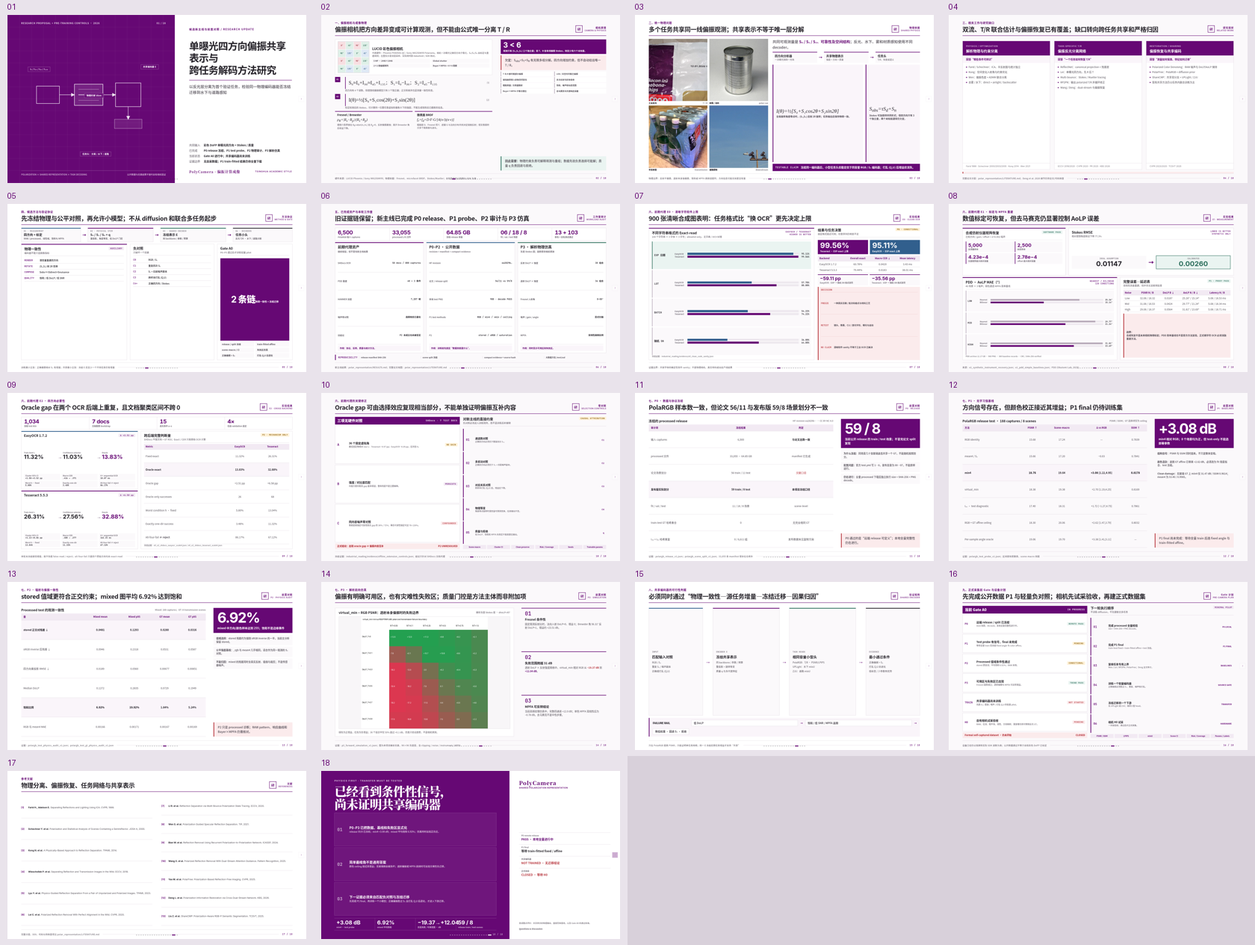
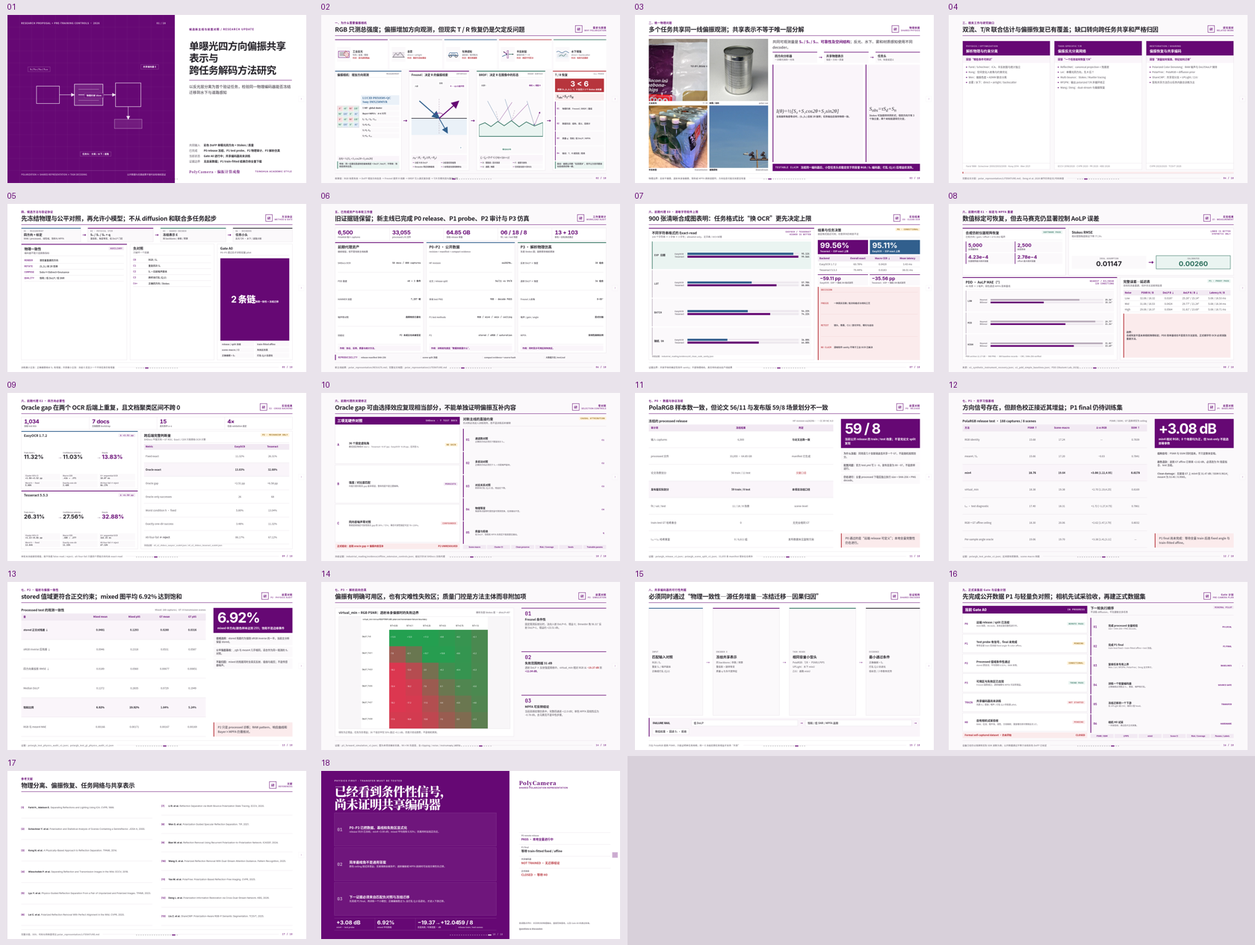
docs: redraw slide 2 polarization narrative

Changed region(s): [[0.2476, 0.0308, 0.4952, 0.185]]

diff --git a/demo/tsinghua-ppt/index.html b/demo/tsinghua-ppt/index.html
@@ -227,6 +227,45 @@
   .rank-card span{display:block;margin-top:.4vh;font:650 clamp(11px,.73vw,14px)/1.35 var(--sans)}
   .reality-list{display:grid;grid-template-columns:1fr 1fr;gap:.5vh .5vw;align-content:start}
   .reality-item{padding:.68vh .55vw;border-left:3px solid var(--line-strong);background:#fff;font:600 clamp(10px,.67vw,13px)/1.3 var(--sans);color:var(--ink-soft)}
+  .camera-physics-story{height:100%;display:grid;grid-template-columns:none;grid-template-rows:17.5vh minmax(0,1fr);gap:1.1vh}
+  .scene-need-grid{display:grid;grid-template-columns:repeat(5,1fr);gap:.65vw;min-height:0}
+  .scene-need{display:grid;grid-template-columns:4.65em 1fr;gap:.65vw;align-items:center;padding:.75vh .65vw;border-top:3px solid var(--accent);background:#fff}
+  .scene-need:nth-child(2){border-top-color:var(--line-strong)}.scene-need:nth-child(3){border-top-color:var(--info)}.scene-need:nth-child(4){border-top-color:var(--danger)}.scene-need:nth-child(5){border-top-color:var(--success)}
+  .scene-symbol{height:8.8vh;min-height:62px;display:grid;place-items:center;background:var(--paper-soft);overflow:hidden}
+  .scene-symbol svg{width:94%;height:94%;display:block}
+  .scene-copy strong{display:block;font:750 clamp(13px,.84vw,16px)/1.2 var(--sans);color:var(--ink)}
+  .scene-copy span{display:block;margin-top:.35vh;font:550 clamp(10px,.67vw,13px)/1.3 var(--sans);color:var(--muted)}
+  .scene-copy em{display:block;margin-top:.38vh;color:var(--danger);font:700 clamp(9px,.62vw,12px)/1.2 var(--sans);font-style:normal}
+  .physics-story-flow{min-height:0;display:grid;grid-template-columns:1.02fr auto .92fr auto 1.05fr auto .82fr;gap:.55vw;align-items:stretch}
+  .story-arrow{display:grid;place-items:center;color:var(--accent);font:800 clamp(20px,1.4vw,27px)/1 var(--sans)}
+  .story-panel{min-height:0;display:grid;grid-template-rows:auto minmax(0,1fr) auto;gap:.65vh;padding:.9vh .72vw;border:1px solid var(--line);background:#fff}
+  .story-panel.camera{border-top:4px solid var(--info)}.story-panel.fresnel{border-top:4px solid var(--accent)}.story-panel.brdf{border-top:4px solid var(--success)}.story-panel.recovery{border-top:4px solid var(--danger)}
+  .story-head{display:flex;align-items:start;justify-content:space-between;gap:.5vw;padding-bottom:.55vh;border-bottom:1px solid var(--line)}
+  .story-head h2{font:750 clamp(15px,.96vw,19px)/1.2 var(--sans);color:var(--ink)}
+  .story-head span{color:var(--muted);font:700 clamp(9px,.6vw,11px)/1 var(--mono);letter-spacing:.05em;text-align:right}
+  .camera-core{display:grid;grid-template-columns:7.3em 1fr;gap:.65vw;align-items:center;min-height:0}
+  .camera-core .sensor-mosaic{width:100%}
+  .stokes-stack{display:grid;gap:.45vh}
+  .stokes-line{padding:.58vh .5vw;background:var(--paper-soft);font:550 clamp(11px,.73vw,14px)/1.3 var(--equation);color:var(--ink)}
+  .stokes-line.primary{background:var(--info-soft);color:var(--info);font-size:clamp(15px,1vw,19px);font-weight:700}
+  .physics-diagram{position:relative;min-height:0;overflow:hidden;background:var(--paper-soft)}
+  .physics-diagram svg{width:100%;height:100%;display:block}
+  .diagram-label{position:absolute;padding:.28vh .35vw;background:rgba(255,255,255,.9);font:700 clamp(9px,.59vw,11px)/1.1 var(--sans);color:var(--ink-soft)}
+  .diagram-label.incident{left:4%;top:8%}.diagram-label.reflect{right:3%;top:8%;color:var(--accent)}.diagram-label.transmit{right:8%;bottom:6%;color:var(--info)}.diagram-label.normal{left:48%;top:4%}
+  .brdf-label.in{left:2%;top:7%}.brdf-label.out{right:2%;top:7%;color:var(--accent)}.brdf-label.micro{left:35%;bottom:4%;color:var(--success)}
+  .physics-formula{padding:.6vh .52vw;background:var(--accent-pale);font:italic 500 clamp(14px,.94vw,18px)/1.25 var(--equation);color:var(--ink)}
+  .impact-list{display:grid;grid-template-columns:1fr 1fr;gap:.32vh .32vw}
+  .impact-list span{padding:.42vh .38vw;background:var(--paper-soft);font:650 clamp(9px,.61vw,12px)/1.2 var(--sans);color:var(--ink-soft)}
+  .impact-list span::before{content:"→";margin-right:.28em;color:var(--accent)}
+  .recovery-core{display:grid;grid-template-rows:auto auto 1fr;gap:.7vh;align-content:start}
+  .unknown-count{padding:.85vh .55vw;background:var(--danger);color:#fff;text-align:center}
+  .unknown-count strong{display:block;font:800 clamp(31px,2.5vw,48px)/1 var(--sans-latin)}
+  .unknown-count span{display:block;margin-top:.35vh;font:650 clamp(10px,.67vw,13px)/1.28 var(--sans)}
+  .recovery-equation{padding:.7vh .55vw;background:var(--danger-soft);font:italic 550 clamp(17px,1.12vw,22px)/1.2 var(--equation);color:var(--ink)}
+  .recovery-path{display:grid;grid-template-rows:repeat(4,1fr);gap:.4vh;align-content:stretch}
+  .recovery-step{display:grid;grid-template-columns:2.1em 1fr;gap:.4vw;align-items:center;padding:.48vh .42vw;border-left:3px solid var(--accent);background:var(--paper-soft);font:650 clamp(10px,.67vw,13px)/1.25 var(--sans);color:var(--ink-soft)}
+  .recovery-step b{color:var(--accent);font-family:var(--mono)}
+  .story-takeaway{padding:.62vh .5vw;background:var(--success-soft);border-left:3px solid var(--success);font:650 clamp(10px,.67vw,13px)/1.3 var(--sans);color:var(--ink-soft)}
 
   /* THU10 · 规律分析 */
   .analysis-layout{height:100%;display:grid;grid-template-columns:66% 1fr;gap:2.5vw}
@@ -767,16 +806,28 @@
 </section>
 
 <section class="slide soft" data-layout="THU09" data-animate="academic" data-slide-id="direction-change">
-  <div class="thu-page"><header class="thu-header"><div><div class="thu-section">一、偏振相机与成像物理</div><h1 class="thu-title">偏振相机把方向差异变成可计算观测，但不能由公式唯一分离 T / R</h1></div><div class="thu-brand"><div class="thu-brand-mark">研</div><div class="thu-brand-copy"><strong>相机原理</strong><span>Camera & Physics</span></div></div></header>
-  <main class="thu-content tight"><div class="formula-layout">
-    <div class="derivation" data-anim>
-      <article class="sensor-overview"><div class="sensor-mosaic" aria-label="彩色 Bayer 与四方向微偏振片组成的 4×4 采样示意，实际排列需按数据手册核对"><span class="sensor-cell r">0°</span><span class="sensor-cell g">45°</span><span class="sensor-cell r">90°</span><span class="sensor-cell g">135°</span><span class="sensor-cell g">90°</span><span class="sensor-cell b">135°</span><span class="sensor-cell g">0°</span><span class="sensor-cell b">45°</span><span class="sensor-cell r">0°</span><span class="sensor-cell g">45°</span><span class="sensor-cell r">90°</span><span class="sensor-cell g">135°</span><span class="sensor-cell g">90°</span><span class="sensor-cell b">135°</span><span class="sensor-cell g">0°</span><span class="sensor-cell b">45°</span></div><div class="sensor-copy"><h2>LUCID 彩色偏振相机</h2><p>代表硬件：Phoenix PHX050S-QC / Sony IMX250MYR Polarsens。相机一次曝光记录四方向子像元，S₀/S₁/S₂ 由标定与重建得到；左图仅示意双层采样，实际排列按 datasheet / SDK 核对。</p><div class="sensor-specs"><span>5 MP · 2448×2048</span><span>Global shutter</span><span>2×2 微偏振阵列</span><span>Bayer×MPFA = 4×4 周期</span></div></div></article>
-      <div class="derivation-step"><span class="step">01</span><div><div class="equation">S₀≈I₀+I₉₀≈I₄₅+I₁₃₅；S₁=I₀−I₉₀；S₂=I₄₅−I₁₃₅ <span class="no">(1)</span></div><p class="caption">四方向有 4 个读数，但理想线偏振模型只有 3 个独立量；正交和差异也是测量一致性检查。</p></div></div>
-      <div class="derivation-step"><span class="step">02</span><div><div class="equation">I(θ)=½[S₀+S₁cos(2θ)+S₂sin(2θ)] <span class="no">(2)</span></div><p class="caption">给定校准后的 Stokes，可计算同一位置任意虚拟检偏角 θ 下的强度；不能生成饱和后已截断的信息。</p></div></div>
-      <div class="physics-duo"><article class="physics-card"><h3>Fresnel / Brewster</h3><div class="math">ρ<sub>R</sub>=|R<sub>s</sub>−R<sub>p</sub>|/(R<sub>s</sub>+R<sub>p</sub>)</div><p>理想介质界面在 θ<sub>B</sub>=atan(n₂/n₁) 处 R<sub>p</sub>=0，反射偏振最强；离开 Brewster 角后收益下降。</p></article><article class="physics-card"><h3>微表面 BRDF</h3><div class="math">f<sub>r</sub>=f<sub>d</sub>+D·F·G/[4(n·l)(n·v)]</div><p>粗糙度 D、Fresnel 项 F、遮蔽 G 与法向分布共同决定镜面反射；现实像素积分多个微表面与波长。</p></article></div>
-    </div>
-    <aside class="constraint-stack" data-anim><div class="rank-card"><strong>3 &lt; 6</strong><span>观测只有 (S₀,S₁,S₂) 三个独立量；若 T、R 各有线偏振 Stokes，则至少有六个未知量。</span></div><div class="callout danger"><strong>欠定：</strong>S<sub>obs</sub>=S<sub>T</sub>+S<sub>R</sub> 有无限多组分解。四方向增加约束，但不自动给出唯一 T / R。</div><div class="reality-list"><div class="reality-item">T 与 R 都可能部分偏振</div><div class="reality-item">LED / 天空光可能已偏振</div><div class="reality-item">玻璃曲率使入射角空间变化</div><div class="reality-item">多次反射与彩色吸收</div><div class="reality-item">粗糙表面 / 次表面散射</div><div class="reality-item">饱和、噪声和动态范围</div><div class="reality-item">Bayer×MPFA 子像元错位</div><div class="reality-item">去马赛克与光谱响应误差</div></div><div class="callout success"><strong>因此需要：</strong>物理约束负责可解释观测与重组；数据先验负责选择可能解；质量 q 负责回退与拒绝。</div></aside>
-  </div></main><footer class="thu-footer"><span>硬件来源：LUCID Phoenix / Sony IMX250MYR；物理依据：Fresnel、microfacet BRDF、Stokes/Mueller；自有型号仍以铭牌与 SDK 为准</span><span class="thu-footer-line"></span><span class="thu-page-no">02 / 18</span></footer></div>
+  <div class="thu-page">
+    <header class="thu-header"><div><div class="thu-section">一、为什么需要偏振相机</div><h1 class="thu-title">RGB 只测总强度；偏振增加方向观测，但现实 T / R 恢复仍是欠定反问题</h1></div><div class="thu-brand"><div class="thu-brand-mark">研</div><div class="thu-brand-copy"><strong>需求与原理</strong><span>WHY POLARIZATION</span></div></div></header>
+    <main class="thu-content tight"><div class="camera-physics-story formula-layout">
+      <div class="scene-need-grid" data-anim>
+        <article class="scene-need"><div class="scene-symbol"><svg viewBox="0 0 100 72" aria-hidden="true"><rect x="9" y="12" width="82" height="48" fill="none" stroke="#660874" stroke-width="3"/><path d="M18 24h45M18 34h31M18 44h38" stroke="#252229" stroke-width="3"/><path d="M64 8L91 35L75 62L48 35Z" fill="rgba(183,53,61,.2)" stroke="#b7353d" stroke-width="2"/></svg></div><div class="scene-copy"><strong>工业反光</strong><span>喷码 / 金属 / 覆膜</span><em>RGB：高光遮挡笔画</em></div></article>
+        <article class="scene-need"><div class="scene-symbol"><svg viewBox="0 0 100 72" aria-hidden="true"><path d="M6 58L30 27L45 44L62 20L94 58Z" fill="none" stroke="#524d56" stroke-width="3"/><path d="M5 22H95M5 32H95M5 42H95M5 52H95" stroke="#b7aab9" stroke-width="5" opacity=".6"/></svg></div><div class="scene-copy"><strong>去雾</strong><span>direct + airlight</span><em>RGB：散射与目标叠加</em></div></article>
+        <article class="scene-need"><div class="scene-symbol"><svg viewBox="0 0 100 72" aria-hidden="true"><path d="M12 47h76l-8-24H24Z" fill="none" stroke="#315f8d" stroke-width="3"/><circle cx="28" cy="50" r="9" fill="none" stroke="#252229" stroke-width="3"/><circle cx="72" cy="50" r="9" fill="none" stroke="#252229" stroke-width="3"/><rect x="35" y="31" width="30" height="13" fill="#eaf1f8" stroke="#315f8d" stroke-width="2"/><path d="M40 38h20" stroke="#252229" stroke-width="2"/></svg></div><div class="scene-copy"><strong>车牌感知</strong><span>逆反射 / 夜间眩光</span><em>RGB：曝光难兼顾</em></div></article>
+        <article class="scene-need"><div class="scene-symbol"><svg viewBox="0 0 100 72" aria-hidden="true"><rect x="45" y="7" width="10" height="58" fill="#f2eaf3" stroke="#660874" stroke-width="2"/><path d="M7 52L45 35" stroke="#315f8d" stroke-width="4"/><path d="M45 35L18 15" stroke="#660874" stroke-width="4"/><path d="M55 35L93 35" stroke="#2e705e" stroke-width="4"/><path d="M37 32L45 35L39 41M25 18L18 15L21 23M85 31L93 35L85 39" fill="none" stroke-width="2" stroke="currentColor"/></svg></div><div class="scene-copy"><strong>半反射层</strong><span>玻璃中的 T + R</span><em>RGB：两层不可区分</em></div></article>
+        <article class="scene-need"><div class="scene-symbol"><svg viewBox="0 0 100 72" aria-hidden="true"><path d="M4 18Q18 7 32 18T60 18T88 18T116 18" fill="none" stroke="#315f8d" stroke-width="3"/><path d="M7 28H93V65H7Z" fill="#eaf1f8" opacity=".8"/><path d="M24 51L41 39L58 51L76 32" fill="none" stroke="#2e705e" stroke-width="3"/><path d="M20 30H84M14 40H90M10 50H94" stroke="#b7aab9" stroke-width="3" opacity=".55"/></svg></div><div class="scene-copy"><strong>水下增强</strong><span>direct + backscatter</span><em>RGB：吸收与后散射</em></div></article>
+      </div>
+      <div class="physics-story-flow" data-anim>
+        <article class="story-panel camera"><div class="story-head"><h2>偏振相机：增加方向观测</h2><span>MEASUREMENT</span></div><div class="camera-core"><div class="sensor-mosaic" aria-label="Bayer 与微偏振阵列叠加的采样示意，实际排列按数据手册核对"><span class="sensor-cell r">0°</span><span class="sensor-cell g">45°</span><span class="sensor-cell r">90°</span><span class="sensor-cell g">135°</span><span class="sensor-cell g">90°</span><span class="sensor-cell b">135°</span><span class="sensor-cell g">0°</span><span class="sensor-cell b">45°</span><span class="sensor-cell r">0°</span><span class="sensor-cell g">45°</span><span class="sensor-cell r">90°</span><span class="sensor-cell g">135°</span><span class="sensor-cell g">90°</span><span class="sensor-cell b">135°</span><span class="sensor-cell g">0°</span><span class="sensor-cell b">45°</span></div><div class="stokes-stack"><div class="stokes-line primary">LUCID PHX050S-QC<br>Sony IMX250MYR</div><div class="stokes-line">5 MP · global shutter</div><div class="stokes-line">Bayer×MPFA：4×4 周期</div><div class="stokes-line">I₀ / I₄₅ / I₉₀ / I₁₃₅</div><div class="stokes-line">S₀≈I₀+I₉₀</div><div class="stokes-line">S₁=I₀−I₉₀</div><div class="stokes-line">S₂=I₄₅−I₁₃₅</div></div></div><div><div class="physics-formula">I(θ)=½[S₀+S₁cos2θ+S₂sin2θ]</div><div class="story-takeaway">带来：同一位置任意虚拟检偏角强度 + DoLP / AoLP；不带来：饱和后丢失信息。</div></div></article>
+        <span class="story-arrow">→</span>
+        <article class="story-panel fresnel"><div class="story-head"><h2>Fresnel：决定 R 的偏振线索</h2><span>INTERFACE</span></div><div class="physics-diagram"><svg viewBox="0 0 280 190" aria-hidden="true"><defs><marker id="fr-a" markerWidth="8" markerHeight="8" refX="7" refY="4" orient="auto"><path d="M0,0L8,4L0,8Z" fill="#315f8d"/></marker><marker id="fr-r" markerWidth="8" markerHeight="8" refX="7" refY="4" orient="auto"><path d="M0,0L8,4L0,8Z" fill="#660874"/></marker></defs><rect x="0" y="106" width="280" height="84" fill="#eaf1f8"/><line x1="0" y1="106" x2="280" y2="106" stroke="#252229" stroke-width="3"/><line x1="140" y1="8" x2="140" y2="184" stroke="#b7aab9" stroke-width="2" stroke-dasharray="7 5"/><path d="M40 18L140 106" fill="none" stroke="#315f8d" stroke-width="5" marker-end="url(#fr-a)"/><path d="M140 106L238 20" fill="none" stroke="#660874" stroke-width="5" marker-end="url(#fr-r)"/><path d="M140 106L182 180" fill="none" stroke="#315f8d" stroke-width="4" marker-end="url(#fr-a)"/><path d="M121 87A28 28 0 0 1 140 79M140 79A28 28 0 0 1 160 87" fill="none" stroke="#850d88" stroke-width="2"/></svg><span class="diagram-label incident">入射</span><span class="diagram-label reflect">R · s/p 分量不同</span><span class="diagram-label transmit">T</span><span class="diagram-label normal">法线</span></div><div><div class="physics-formula">ρ<sub>R</sub>=|R<sub>s</sub>−R<sub>p</sub>|/(R<sub>s</sub>+R<sub>p</sub>)</div><div class="impact-list"><span>决定 R 的 DoLP</span><span>决定最优检偏角</span><span>Brewster 附近线索最强</span><span>入射角变化使线索移动</span></div></div></article>
+        <span class="story-arrow">→</span>
+        <article class="story-panel brdf"><div class="story-head"><h2>BRDF：决定 R 在图像中的形态</h2><span>ROUGH SURFACE</span></div><div class="physics-diagram"><svg viewBox="0 0 300 190" aria-hidden="true"><defs><marker id="br-in" markerWidth="8" markerHeight="8" refX="7" refY="4" orient="auto"><path d="M0,0L8,4L0,8Z" fill="#315f8d"/></marker><marker id="br-out" markerWidth="8" markerHeight="8" refX="7" refY="4" orient="auto"><path d="M0,0L8,4L0,8Z" fill="#660874"/></marker></defs><path d="M0 137L28 126L56 144L88 120L118 140L152 116L188 145L222 122L260 141L300 125V190H0Z" fill="#eaf4f1" stroke="#2e705e" stroke-width="3"/><path d="M40 24L92 121M92 121L155 30M122 15L154 116M154 116L228 38M225 24L260 139M260 139L286 75" fill="none" stroke-width="4"/><path d="M40 24L92 121M122 15L154 116M225 24L260 139" stroke="#315f8d" marker-end="url(#br-in)"/><path d="M92 121L155 30M154 116L228 38M260 139L286 75" stroke="#660874" marker-end="url(#br-out)"/><path d="M92 121L80 73M154 116L168 65M260 139L246 91" stroke="#b7aab9" stroke-width="2" stroke-dasharray="6 5"/></svg><span class="diagram-label brdf-label in">光源 l</span><span class="diagram-label brdf-label out">相机 v / 镜面 R</span><span class="diagram-label brdf-label micro">微法向分布</span></div><div><div class="physics-formula">f<sub>r</sub>=f<sub>d</sub>+D·F·G/[4(n·l)(n·v)]</div><div class="impact-list"><span>D：粗糙度 / 高光宽度</span><span>F：偏振与颜色</span><span>G：遮蔽 / 掩蔽</span><span>空间变化使 R 非均匀</span></div></div></article>
+        <span class="story-arrow">→</span>
+        <article class="story-panel recovery"><div class="story-head"><h2>T / R 恢复</h2><span>ILL-POSED</span></div><div class="recovery-core"><div class="unknown-count"><strong>3 &lt; 6</strong><span>观测 (S₀,S₁,S₂)；T、R 各至少 3 个 Stokes 未知量</span></div><div class="recovery-equation">S<sub>obs</sub>=S<sub>T</sub>+S<sub>R</sub></div><div class="recovery-path"><div class="recovery-step"><b>01</b><span>物理约束：Fresnel / BRDF / 重组</span></div><div class="recovery-step"><b>02</b><span>数据先验：结构、语义、层统计</span></div><div class="recovery-step"><b>03</b><span>质量 q：饱和 / 低 DoLP / MPFA</span></div><div class="recovery-step"><b>04</b><span>输出：T、R 或回退 / 拒绝</span></div></div></div><div class="story-takeaway">结论：偏振让问题“信息更多”，但不让欠定问题自动变成闭式唯一解。</div></article>
+      </div>
+    </div></main>
+    <footer class="thu-footer"><span>叙事链：RGB 场景失效 → DoFP 增加方向信息 → Fresnel 提供 R 线索 → BRDF 引入真实复杂度 → T/R 仍需先验与质量门控</span><span class="thu-footer-line"></span><span class="thu-page-no">02 / 18</span></footer>
+  </div>
 </section>
 
 <section class="slide" data-layout="THU03" data-animate="academic" data-slide-id="background-physics">
@@ -951,7 +1002,7 @@
 <script>
 const SPEAKER_NOTES = [
   {id:'cover',title:'候选新主线与当前边界',section:'开场',minutes:0.4,purpose:'交代共享偏振表示的新主线、已完成 P0–P3 和尚未训练的边界',talk:['候选主线不再是只优化一个 OCR 或去反光任务，而是学习可冻结复用的偏振表示','反光层分离是第一个源任务，水下与道路分割是下游候选','目前只完成公开数据和解析仿真的 P0–P3；没有共享编码器结果，也没有自采数据'],transition:'先说明方向如何从前期深度和识读代理演进到共享表示'},
-  {id:'direction-change',title:'偏振相机与成像物理',section:'物理基础',minutes:1.6,purpose:'说明彩色 DoFP 如何从四方向观测恢复 Stokes，并解释 Fresnel/BRDF 为什么仍不能唯一求解 T/R',talk:['相机直接记录的是 0、45、90、135 度子像元强度；S0、S1、S2 需要经过方向响应标定、Bayer×MPFA 重建后计算','代表硬件是 LUCID Phoenix PHX050S-QC 与 Sony IMX250MYR 彩色 Polarsens：5 MP、全局快门、2×2 微偏振阵列与 Bayer 叠加形成 4×4 采样周期；自有型号仍以铭牌和 SDK 为准','由 Stokes 可以合成同一位置任意虚拟检偏角的强度，但不能恢复饱和后已经截断的信息','Fresnel 说明 Brewster 角附近反射偏振最强；微表面 BRDF 进一步受到粗糙度、法向分布、遮蔽和波长影响','观测只有三个独立线偏振量，而 T、R 各自都可能有三个 Stokes 未知量；再加部分偏振照明、曲率、多次反射、噪声和去马赛克，所以不是代公式即可唯一求解，仍需要数据先验与质量门控'],transition:'下一页再把这些物理约束映射到传统 ICA、偏振 T/R 网络和其他相关工作',cue:'先指左上相机采样，再依次指公式、Fresnel/BRDF 和右侧“3<6”欠定关系'},
+  {id:'direction-change',title:'为什么需要偏振相机',section:'物理基础',minutes:1.8,purpose:'按“RGB 场景失效—DoFP 新观测—Fresnel 线索—BRDF 复杂度—T/R 欠定恢复”建立完整动机',talk:['先看顶部五类场景：工业高光会遮笔画，雾和水下把 direct 与散射叠加，车牌有逆反射和夜间眩光，玻璃让 transmission 与 reflection 同像素叠加；RGB 只测总强度，难区分成分','LUCID Phoenix PHX050S-QC / Sony IMX250MYR 用 Bayer 与四方向微偏振阵列一次曝光获取 I0、I45、I90、I135；经过标定和重建得到 S0、S1、S2，因此能合成任意虚拟检偏角并计算 DoLP/AoLP','Fresnel 图说明 s/p 反射系数随入射角不同，Brewster 角附近 R 的偏振线索最强；这决定图像中 R 的 DoLP 和最有利检偏角','BRDF 图说明真实 R 还由粗糙度 D、Fresnel F、遮蔽 G 和微法向分布共同决定，所以高光宽度、位置、颜色和偏振在空间上变化，不能套一个全局角度','最后观测只有三个独立 Stokes 量，而 T、R 各自至少有三个未知量；偏振增加信息但问题仍欠定，需要物理重组、数据先验和质量 q，在饱和或低 DoLP 时回退或拒绝'],transition:'下一页再展示传统 ICA、偏振 T/R 分离网络和其他相关工作分别如何处理这个欠定问题',cue:'按页面从上到下、从左到右讲：五场景 → 相机 → Fresnel → BRDF → 3<6'},
   {id:'background-physics',title:'统一物理问题',section:'问题与文献',minutes:1.0,purpose:'给出共享表示的物理依据和欠定边界',talk:['四方向只测得三个独立线偏振 Stokes 量，多个任务共享的是这一光场而不是最终结果图','互不相干光的 Stokes 可加，使反光、雾和水下可写成 direct 与 nuisance 的统一形式','但两个未知层通常超过三个未知量，物理只缩小解空间，不能保证唯一分解','所以要同时输出质量，并在低 DoLP、饱和和 MPFA 失败时回退'],transition:'物理基础已有长期积累，下面明确现有网络已经做到哪里、我们的缺口还剩什么'},
   {id:'related-work-map',title:'相关工作与研究缺口',section:'问题与文献',minutes:1.2,purpose:'按路线梳理前人工作，并避免把已有双流/T-R/偏振恢复误写成创新',talk:['传统路线从 ICA、半反射面到空间变化入射角和 ADMM，主要回答可辨识条件','任务网络已经覆盖 canonical projection、先 R 后 T、多次反射 tracing、polarized T/R、dual-stream 和 polarization restoration','PolarFree 提供大规模数据，ShareCMP 提供共享双分支与下游接口','因此候选差异必须是冻结跨任务、严格负对照归因和失效质量门控；Deng 2026 的全文细节仍需核查'],transition:'基于这个缺口，下一页给出最小方法和不允许跳过的 Gate'},
   {id:'system-protocol',title:'候选方法与验证协议',section:'方法与协议',minutes:1.0,purpose:'说明物理 stem、共享编码器、任务头、负对照和 Gate A0',talk:['先把四方向校准为 Stokes 与质量，再进入共享编码器；decoder 保持小且同容量','物理约束包括重投影、角度等变和层重组，不能只看 PSNR','负对照只破坏一个因素：重复 S0、噪声副本、跨样本打乱 Q,U','P0–P3 未完成前不训练；通过后也只跑轻量 pilot，不先上 diffusion'],transition:'先集中展示本轮新增的公开数据与仿真工作量'},

diff --git a/demo/tsinghua-ppt/speech-script.md b/demo/tsinghua-ppt/speech-script.md
@@ -1,7 +1,7 @@
 # 周汇报演讲稿（对应 HTML PPT 18 页）
 
 - **主题：** 单曝光四方向偏振共享表示与跨任务解码方法研究。
-- **计划时长：** 演讲者备注合计 16.6 分钟，建议实际控制在 17–18 分钟。
+- **计划时长：** 演讲者备注合计 16.8 分钟，建议实际控制在 17–18 分钟。
 - **证据边界：** P0–P3 来自公开数据和解析仿真；共享编码器尚未训练；没有自采结果。
 - **用法：** 普通段落可直接讲；引用块为提醒，不念。
 
@@ -10,7 +10,7 @@
 | 页 | 内容 | 计划 | 观众只需记住 |
 |---|---|---:|---|
 | 1 | 封面 | 0.4 | 新主线是共享偏振编码器，但尚未训练 |
-| 2 | 偏振相机与成像物理 | 1.6 | 四方向可恢复 Stokes，但 T/R 仍然欠定 |
+| 2 | 为什么需要偏振相机 | 1.8 | RGB 不足→方向观测→Fresnel/BRDF→T/R 仍欠定 |
 | 3 | 统一物理 | 1.0 | 共享的是 Stokes 光场，不是唯一层分解 |
 | 4 | 相关工作 | 1.2 | 双流、T/R、偏振恢复已有覆盖 |
 | 5 | 方法与 Gate | 1.0 | 先冻结物理和负对照，再允许小模型 |
@@ -31,15 +31,17 @@
 
 先明确边界：目前完成的是公开数据 P0–P3 和解析仿真，没有训练共享编码器，也没有自采数据。
 
-## 第 2 页 · 偏振相机与成像物理
+## 第 2 页 · 为什么需要偏振相机
 
-这一页先说明偏振相机到底提供什么。代表硬件是 LUCID Phoenix PHX050S-QC，内部使用 Sony IMX250MYR 彩色偏振传感器，5 百万像素、全局快门。四个微偏振方向和 Bayer 滤色阵列叠加后形成更稀疏的空间采样。左边的 4×4 只是结构示意，实际相位排列仍要按自有相机的数据手册和 SDK 核对。
+这一页按一条顺序讲。先看顶部五类场景：工业高光会遮住喷码笔画；雾和水下把目标直达光与散射光叠加；车牌的逆反射会造成夜间眩光和曝光冲突；玻璃则把 transmission 与 reflection 压在同一个像素。普通 RGB 相机主要记录三个颜色通道的总强度，很难判断这些光分别来自哪一层。
 
-相机直接记录的不是三张 S0、S1、S2 图，而是 0、45、90、135 度四类子像元强度。经过方向响应标定、去马赛克和配准后，可以计算 S0、S1、S2，再用公式合成同一位置任意虚拟检偏角的强度。但如果原始方向已经饱和，公式不能恢复被截断的信息。
+偏振相机增加了方向维观测。代表硬件是 LUCID Phoenix PHX050S-QC，内部使用 Sony IMX250MYR 彩色偏振传感器。Bayer 与 0、45、90、135 度微偏振阵列叠加后，一次曝光得到四类方向子像元。经过标定和去马赛克后计算 S0、S1、S2，就能合成任意虚拟检偏角的强度，并得到 DoLP 和 AoLP。它增加了 RGB 没有的方向信息，但不能恢复已经饱和截断的信息。
 
-偏振为什么可能帮助反光分离，可以从 Fresnel 看：在理想介质的 Brewster 角附近，p 偏振反射趋近于零，反射的线偏振度最高。但真实表面还要经过微表面 BRDF：粗糙度、微法向分布、遮蔽、Fresnel 项和波长一起决定最终反射，单个像素还会积分多个微表面。
+接着看 Fresnel 图。理想介质界面上，s 和 p 分量的反射系数随入射角不同，Brewster 角附近 p 偏振反射趋近于零，reflection 的偏振线索最强。因此 Fresnel 决定了 R 的 DoLP、最有利检偏角，以及这些线索如何随视角变化。
 
-最后是关键的欠定关系。四方向理想情况下只有 S0、S1、S2 三个独立量；如果 transmission 和 reflection 各自都是部分偏振光，它们合起来至少有六个未知量。现实中还有部分偏振照明、玻璃曲率、多次反射、彩色吸收、饱和、噪声和 Bayer×MPFA 重建误差。因此这不是把 Fresnel 或 Stokes 公式代进去就能唯一求解的问题，仍然需要数据先验来选择可能解，并需要质量门控在不可辨识时回退或拒绝。
+但真实图像还受到 BRDF 控制。微表面模型中的 D 表示粗糙度和微法向分布，F 是 Fresnel 项，G 是遮蔽和掩蔽。它们共同决定高光的宽度、位置、颜色和空间变化，单个像素还会混合多个微表面、波长和次表面散射。所以不能用一个全局 Fresnel 角度直接把整张图分开。
+
+最后落到 T/R 恢复：四方向理想情况下只有 S0、S1、S2 三个独立观测，但 T 和 R 各自至少有三个 Stokes 未知量，也就是 3 小于 6。满足 `Sobs=ST+SR` 的分解有无限多组。偏振让问题获得更多约束，但没有自动变成闭式唯一解；仍需要物理重组约束、数据先验来选择可能解，并用质量 q 在饱和、低 DoLP 或 MPFA 失败时回退或拒绝。
 
 ## 第 3 页 · 统一物理问题
 

diff --git a/demo/tsinghua-ppt/images/SOURCES.md b/demo/tsinghua-ppt/images/SOURCES.md
@@ -19,13 +19,16 @@
 
 `11-polar-a.svg`、`11-polar-b.svg`、`11-stokes.svg`、`11-quality.svg`、`11-adaptive.svg`、`11-ocr.svg` 为本项目根据研究方案绘制的数据结构示意，不代表已采集的偏振图或实验结果。
 
+第 2 页的工业反光、去雾、车牌、半反射层、水下增强场景图标，以及 DoFP、Fresnel 和微表面
+BRDF 图均为 HTML/CSS/无文字 SVG 的本项目原创机制示意，不是相机照片、光线追踪结果或定量实验。
+
 ## 本项目实验数字与结果图
 
 当前 PPT 为 18 页共享偏振表示研究更新版。所有新主线数字均来自公开数据或解析仿真，不是自有相机结果。
 
 | 页码 | 内容 | 冻结来源 |
 |---|---|---|
-| 2 | 彩色偏振相机、Stokes、Fresnel、microfacet BRDF 与 T/R 欠定 | LUCID Phoenix PHX050S-QC 产品资料、Sony IMX250MYR / Polarsens 资料、`05_polarization_camera_physical_models.md`、Born & Wolf *Principles of Optics*、Cook–Torrance / Walter 等 microfacet 模型、Schechner / ReflectNet 的半反射层模型；4×4 图为结构示意，非芯片实际相位图 |
+| 2 | 五类 RGB 失效场景、彩色偏振相机、Stokes、Fresnel、microfacet BRDF 与 T/R 欠定 | LUCID Phoenix PHX050S-QC 产品资料、Sony IMX250MYR / Polarsens 资料、`05_polarization_camera_physical_models.md`、Born & Wolf *Principles of Optics*、Cook–Torrance / Walter 等 microfacet 模型、Schechner / ReflectNet 的半反射层模型；所有图为机制示意，4×4 单元非芯片实际相位图 |
 | 3 | 四方向 Stokes 与统一 direct/nuisance 物理形式 | `05_polarization_camera_physical_models.md`、`polar_representation/LITERATURE.md`；4 张照片为上述 Commons 场景示意（该页将在下一轮改为传统 ICA 与偏振分离网络） |
 | 4 | 物理分离、任务网络、偏振恢复与共享表示路线 | `polar_representation/LITERATURE.md`；Deng et al. 2026 的网络细节按“待全文核查”处理 |
 | 5 | 物理 stem、共享编码器、负对照与 Gate A0 | `15_shared_polarization_encoder_pretraining_controls.md` 第 10 节 |
